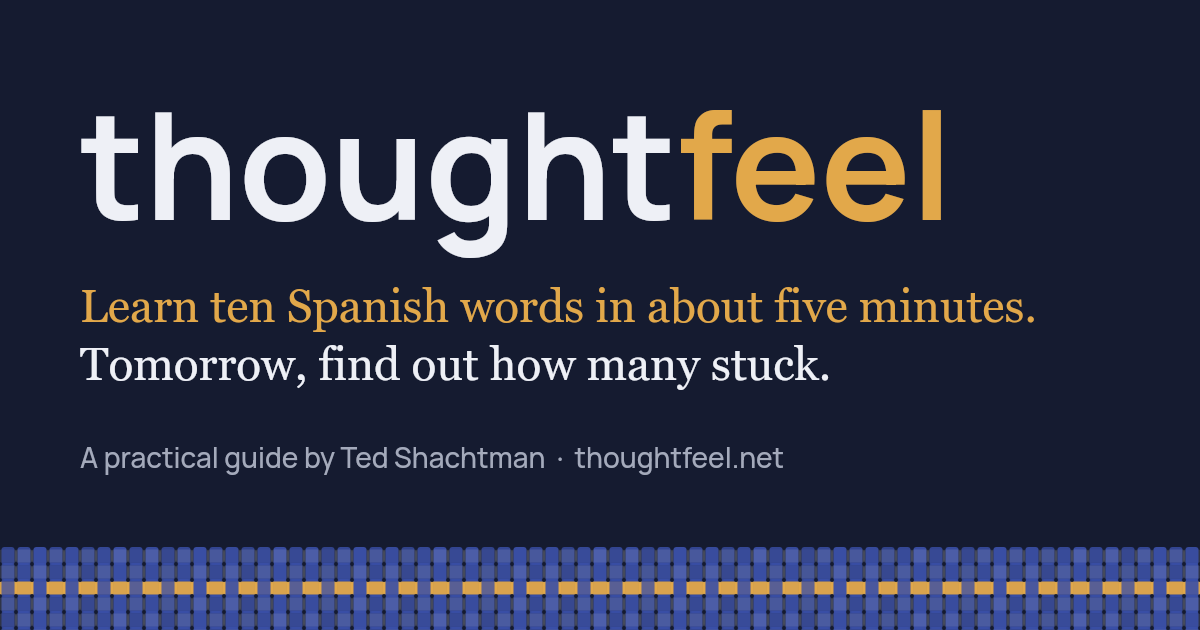
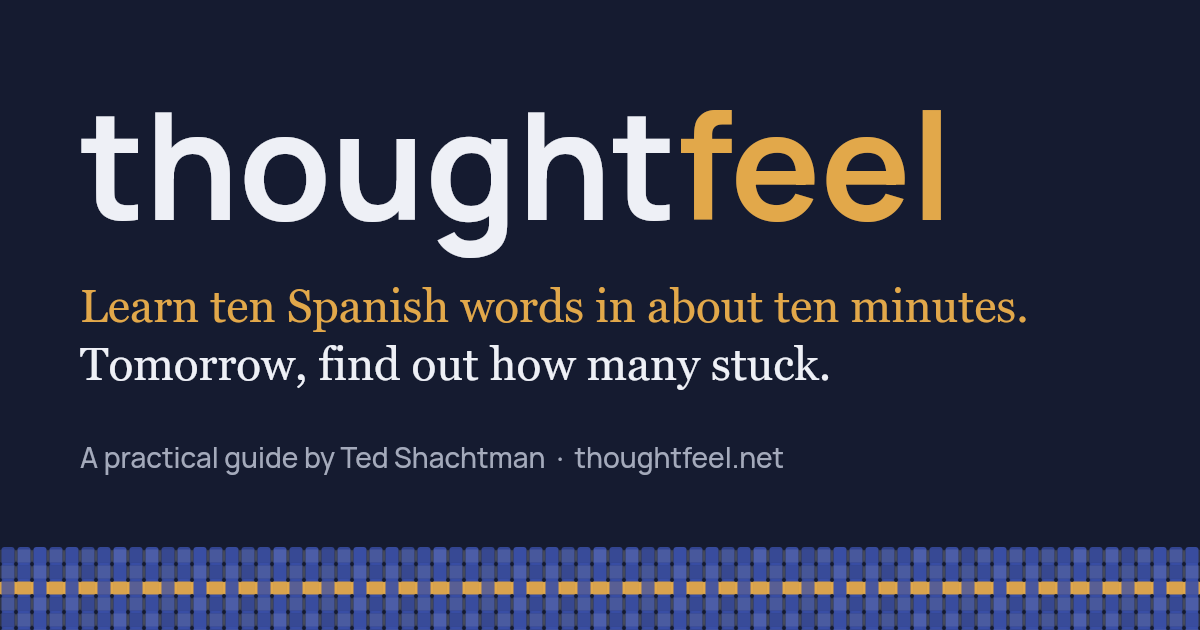
Update site

Changed region(s): [[0.6475, 0.4524, 0.8633, 0.5127]]

diff --git a/words/index.html b/words/index.html
@@ -3,21 +3,21 @@
 <head>
 <meta charset="utf-8">
 <meta name="viewport" content="width=device-width, initial-scale=1, viewport-fit=cover">
-<meta name="description" content="Learn ten Spanish words in about five minutes with thoughtfeel. Tomorrow, take a two-minute test and find out how many stuck.">
+<meta name="description" content="Learn ten Spanish words in about ten minutes with thoughtfeel. Tomorrow, take a two-minute test and find out how many stuck.">
 <link rel="canonical" href="https://thoughtfeel.net/words/">
 <link rel="icon" href="/favicon.svg" type="image/svg+xml">
 <meta property="og:type" content="website">
 <meta property="og:site_name" content="thoughtfeel">
 <meta property="og:title" content="Ten Spanish words: how many will stick?">
-<meta property="og:description" content="Learn ten Spanish words in about five minutes with thoughtfeel. Tomorrow, take a two-minute test and find out how many stuck.">
+<meta property="og:description" content="Learn ten Spanish words in about ten minutes with thoughtfeel. Tomorrow, take a two-minute test and find out how many stuck.">
 <meta property="og:url" content="https://thoughtfeel.net/words/">
 <meta property="og:image" content="https://thoughtfeel.net/og-words.png">
 <meta property="og:image:width" content="1200">
 <meta property="og:image:height" content="630">
-<meta property="og:image:alt" content="Learn ten Spanish words in about five minutes. Tomorrow, find out how many stuck.">
+<meta property="og:image:alt" content="Learn ten Spanish words in about ten minutes. Tomorrow, find out how many stuck.">
 <meta name="twitter:card" content="summary_large_image">
 <meta name="twitter:title" content="Ten Spanish words: how many will stick?">
-<meta name="twitter:description" content="Learn ten Spanish words in about five minutes with thoughtfeel. Tomorrow, take a two-minute test and find out how many stuck.">
+<meta name="twitter:description" content="Learn ten Spanish words in about ten minutes with thoughtfeel. Tomorrow, take a two-minute test and find out how many stuck.">
 <meta name="twitter:image" content="https://thoughtfeel.net/og-words.png">
 <script>
 window.tfTrack = function (path, title) {
@@ -228,25 +228,26 @@ window.tfTrack = function (path, title) {
     <canvas id="swatch" aria-hidden="true"></canvas>
     <div class="card-body" id="words" aria-live="polite">
       <!-- rendered by script; this is the intro and the no-script state -->
-      <p class="eyebrow">Ten Spanish words · 5 minutes</p>
+      <p class="eyebrow">Ten Spanish words · 10 minutes</p>
       <h1 tabindex="-1">How many will stick?</h1>
       <p class="lede">Learn ten Spanish words with thoughtfeel, a sense for concepts. Tomorrow, take a two-minute test and find out how many stuck.</p>
       <noscript><p class="note">This page needs JavaScript turned on.</p></noscript>
       <div class="first">
         <p><strong>Watch the vocabulary lesson first.</strong></p>
-        <p>This exercise uses the technique from the 10-minute lesson. Without it, you won’t know what to do with each word, and they won’t stick.</p>
+        <p>This exercise uses the technique from the 6-minute lesson. Without it, you won’t know what to do with each word, and they won’t stick.</p>
       </div>
       <div class="actions">
-        <a class="btn primary" href="https://www.youtube.com/watch?v=Hfb_A-hkyfk" target="_blank" rel="noopener" data-track="words-intro-lesson">Watch the lesson (10 min)</a>
+        <a class="btn primary" href="https://www.youtube.com/watch?v=VDHt3z8Babo" target="_blank" rel="noopener" data-track="words-intro-lesson">Watch the lesson (6 min)</a>
         <button class="btn" type="button" data-act="start">I’ve watched it: start</button>
       </div>
       <p class="note">Turn your sound on, and find a spot where you can speak out loud.</p>
-      <p class="text how-head">People with thoughtfeel report that a word’s sounds have a feel of their own. For each word, you’ll:</p>
+      <p class="text how-head">For each word, you’ll:</p>
       <ol class="how">
-        <li>Hear it, and notice the feel of its sounds.</li>
-        <li>Hold that feel while you say out loud what the word means.</li>
-        <li>Then the reverse: hold the feel of the meaning, and say the Spanish word.</li>
+        <li>Hear it, and see what it means.</li>
+        <li>Find a part of it that sounds like something you know.</li>
+        <li>Bring up that part and the meaning as concepts, and say out loud how they connect.</li>
       </ol>
+      <p class="note">Then you’ll see one way to link it.</p>
       <p class="note">Not sure you have thoughtfeel? <a href="/#test">Take the 1-minute test</a> first.</p>
     </div>
   </main>
@@ -303,26 +304,28 @@ window.tfTrack = function (path, title) {
 
   /* ---------- The words ---------- */
   // Words an English speaker is unlikely to know or to guess from English. The vocabulary lesson's
-  // own examples (hazaña, bisagra) are left out, so they stay fresh for people who come from the video.
+  // own examples (tobillo, espalda, pierna) are left out, so they stay fresh for people who come from the video.
+  // part: a sound in the word that sounds like something an English speaker knows; link: one way to say how
+  // that thing connects to the meaning. Shown after people try their own.
   var WORDS = [
-    { es: 'ardilla', say: 'ar-DEE-yah', en: 'squirrel' },
-    { es: 'embudo', say: 'em-BOO-doh', en: 'funnel' },
-    { es: 'relámpago', say: 'reh-LAHM-pah-goh', en: 'lightning' },
-    { es: 'cajón', say: 'kah-HOHN', en: 'drawer' },
-    { es: 'charco', say: 'CHAR-koh', en: 'puddle' },
-    { es: 'anzuelo', say: 'ahn-SWEH-loh', en: 'fishhook' },
-    { es: 'pereza', say: 'peh-REH-sah', en: 'laziness' },
-    { es: 'madrugada', say: 'mah-droo-GAH-dah', en: 'the hours before dawn' },
-    { es: 'buzón', say: 'boo-SOHN', en: 'mailbox' },
-    { es: 'ceja', say: 'SEH-hah', en: 'eyebrow' }
+    { es: 'ardilla', say: 'ar-DEE-yah', en: 'squirrel', part: 'ardilla sounds a bit like armadillo.', link: 'A squirrel is a small wild animal, like an armadillo.' },
+    { es: 'embudo', say: 'em-BOO-doh', en: 'funnel', part: 'embudo sounds a bit like bamboo.', link: 'A funnel is hollow, like bamboo, so things pour through it.' },
+    { es: 'relámpago', say: 'reh-LAHM-pah-goh', en: 'lightning', part: 'relámpago has lamp in it.', link: 'Lightning lights everything up, like a lamp.' },
+    { es: 'cajón', say: 'kah-HOHN', en: 'drawer', part: 'cajón ends a bit like home.', link: 'A drawer is a home for your socks.' },
+    { es: 'charco', say: 'CHAR-koh', en: 'puddle', part: 'charco starts like jar.', link: 'A puddle holds water on the ground, like a jar.' },
+    { es: 'anzuelo', say: 'ahn-SWEH-loh', en: 'fishhook', part: 'anzuelo has swell in it.', link: 'A fishhook dangles in the swell of the sea.' },
+    { es: 'pereza', say: 'peh-REH-sah', en: 'laziness', part: 'pereza sounds like it has rest in it.', link: 'Laziness is wanting to rest.' },
+    { es: 'madrugada', say: 'mah-droo-GAH-dah', en: 'the hours before dawn', part: 'madrugada has dru, like dew.', link: 'Dew forms in the hours before dawn.' },
+    { es: 'buzón', say: 'boo-SOHN', en: 'mailbox', part: 'buzón ends a bit like zone.', link: 'A mailbox is a drop zone for letters.' },
+    { es: 'ceja', say: 'SEH-hah', en: 'eyebrow', part: 'ceja sounds like “say ha!”', link: 'Your eyebrows go up when you say ha!' }
   ];
   var N = WORDS.length;
   var KEY = 'thoughtfeel.words';
   var WAIT = 8 * 3600e3; // the test opens 8 hours after learning, but the next day is the real test
   var SHARE_URL = 'https://thoughtfeel.net/words/';
   var SHARED_URL = SHARE_URL + '?ref=words-share'; // what friends get; tagged so GoatCounter shows visits from shares
-  var LESSON_URL = 'https://www.youtube.com/watch?v=Hfb_A-hkyfk'; // the vocabulary lesson
-  var STEPS = ['Hear it', 'Bind it', 'The reverse'];
+  var LESSON_URL = 'https://www.youtube.com/watch?v=VDHt3z8Babo'; // the vocabulary lesson
+  var STEPS = ['Hear it', 'Link it', 'One way'];
   var box = document.getElementById('words');
   var card = document.getElementById('words-card');
   var INTRO = box.innerHTML;
@@ -423,7 +426,7 @@ window.tfTrack = function (path, title) {
       '<div class="word-meta"><span class="say-it">' + w.say + '</span>' + hearButton(w) + '</div></div>';
   }
 
-  /* ---------- Learning: hear it, bind it, the reverse ---------- */
+  /* ---------- Learning: hear it, link it, then one way to link it ---------- */
   function startLearning() {
     learning = { startedAt: Date.now(), i: 0, step: 0 };
     renderLearn();
@@ -434,23 +437,23 @@ window.tfTrack = function (path, title) {
     var w = WORDS[learning.i], s = learning.step, first = learning.i === 0, last = learning.i === N - 1;
     var html = progress(learning.i) +
       '<p class="eyebrow">Word ' + (learning.i + 1) + ' of ' + N + ' · ' + STEPS[s] + '</p>' +
-      wordBlock(w);
+      wordBlock(w) +
+      '<p class="meaning">It means <b>' + w.en + '</b>.</p>';
     if (s === 0) {
       html += '<p class="do" tabindex="-1">' + (first
-        ? 'Say it to yourself: <span class="say" lang="es">' + w.es + '</span>. Then notice the feel of its sounds.'
-        : 'Say it to yourself, and notice the feel of its sounds.') + '</p>' +
+        ? 'Say it to yourself: <span class="say" lang="es">' + w.es + '</span>. Listen for sounds in it that connect to ' + w.en + '.'
+        : 'Say it to yourself, and listen for sounds that connect to ' + w.en + '.') + '</p>' +
         actions('<button type="button" class="btn primary" data-act="step">Next</button>');
     } else if (s === 1) {
-      html += '<p class="meaning">It means <b>' + w.en + '</b>.</p>' +
-        '<p class="do" tabindex="-1">' + (first
-          ? 'Bring up the feel of the sounds of ' + w.es + '. While you hold that feel, say out loud: <span class="say">“this means ' + w.en + '.”</span>'
-          : 'Hold the feel of its sounds, and say out loud: <span class="say">“this means ' + w.en + '.”</span>') + '</p>' +
-        (first ? '<p class="tip">If the feel switches to ' + w.en + ' as you say it, that’s okay. Switch between them: the feel of ' + w.es + ', then say ' + w.en + ', then back to the feel of ' + w.es + '.</p>' : '') +
+      html += '<p class="do" tabindex="-1">' + (first
+          ? 'Find a sound in ' + w.es + ' that connects to ' + w.en + '. If nothing in the whole word does, break it into parts that sound like something you know. ' +
+            'Bring up that part as a concept, the way you’d bring up the economy: not a picture, and not the sound of it. Bring up ' + w.en + ' too, and while both are up in thoughtfeel, <span class="say">say out loud how they connect.</span>'
+          : 'Find a part that sounds like something you know. Bring it up with ' + w.en + ', and while both are up, <span class="say">say out loud how they connect.</span>') + '</p>' +
+        (first ? '<p class="tip">If you found two parts, link them to each other as well, so the sounds of the word hold together.</p>' : '') +
         actions('<button type="button" class="btn primary" data-act="step">Next</button>');
     } else {
-      html += '<p class="meaning">It means <b>' + w.en + '</b>.</p>' +
-        '<p class="do" tabindex="-1">Now the reverse. ' + (first ? 'Bring up' : 'Hold') + ' the feel of ' + w.en + ', and say out loud: <span class="say" lang="es">“' + w.es + '.”</span></p>' +
-        (first ? '<p class="tip">Optional: if part of ' + w.es + ' sounds like a word you know, tie them together. Bring up the feel of that word, and notice the sound it shares with ' + w.es + '.</p>' : '') +
+      html += '<p class="do" tabindex="-1">One way: ' + w.part + ' <span class="say">“' + w.link + '”</span></p>' +
+        (first ? '<p class="tip">If you found your own link, use yours. Say ' + w.es + ' once more: you may get a sense of something like ' + w.en + ' right away, before the word itself. Stay with that.</p>' : '') +
         actions('<button type="button" class="btn primary" data-act="step">' + (last ? 'Finish' : 'Next word') + '</button>');
     }
     html += '<p class="note"><button type="button" class="linkish" data-act="' + (s > 0 || learning.i > 0 ? 'step-back' : 'intro') + '">Back</button></p>';
@@ -542,7 +545,7 @@ window.tfTrack = function (path, title) {
       '<p class="eyebrow">The Spanish word · ' + (k + 1) + ' of ' + N + '</p>' +
       '<p class="prompt">' + w.en + '</p>' +
       '<p class="do">' + (k === 0
-        ? 'Bring up the feel of ' + w.en + ', and let the Spanish word come. Say it out loud, then type it. Spelling doesn’t matter; the sounds do.'
+        ? 'Bring up ' + w.en + ', and the part you linked to it, and let the Spanish word come. Say it out loud, then type it. Spelling doesn’t matter; the sounds do.'
         : 'Say the Spanish word out loud, then type it.') + '</p>' +
       '<form id="say-form" novalidate><div class="answer-row">' +
         '<input type="text" id="say-input" lang="es" aria-label="The Spanish word for ' + w.en + '" placeholder="Type what you said" autocomplete="off" autocapitalize="off" autocorrect="off" spellcheck="false" enterkeyhint="next">' +
@@ -639,11 +642,11 @@ window.tfTrack = function (path, title) {
   }
   function sayMeter(n) { return meter('m-say', 'The word, from its meaning', n.e, n.c, n.e + ' of ' + N + (n.c ? ', plus ' + n.c + ' close' : '')); }
   function resultText(n) {
-    if (n.r <= 3) return 'Fewer stuck this time. If the feel of a word’s sounds didn’t come up while you learned it, there was nothing for the meaning to bind to. Not sure you have thoughtfeel? <a href="/#test">Take the 1-minute test</a>.';
+    if (n.r <= 3) return 'Fewer stuck this time. A link holds when both things are up in thoughtfeel, as concepts, while you say how they connect. Not sure you have thoughtfeel? <a href="/#test">Take the 1-minute test</a>.';
     if (n.e + n.c / 2 >= n.r) return 'You produced the words about as well as you recognized them. Producing is usually the harder direction.';
     return 'Producing a word is usually harder than recognizing it.' +
-      (n.c ? ' A close answer means the feel of its sounds came back, but not every sound.' : '') +
-      ' To make the sounds easier to bring back, tie them to a word you know: bring up the feel of both, and notice the sound they share.';
+      (n.c ? ' A close answer means the part you linked came back, but not the whole word.' : '') +
+      ' To bring the whole word back, link its parts to each other as well, so the sounds of the word hold together.';
   }
   function chips(k, mark) {
     return '<span class="chips" role="group" aria-label="Mark for this answer">' + ['exact', 'close', 'missed'].map(function (m) {

diff --git a/index.html b/index.html
@@ -659,11 +659,11 @@ window.tfTrack = function (path, title) {
         <span class="video-desc">Build an analogy piece by piece, and catch the near misses a list of words would let through.</span>
       </a>
       <div class="video-item">
-        <a class="video" href="https://www.youtube.com/watch?v=Hfb_A-hkyfk" target="_blank" rel="noopener">
-          <span class="thumb"><img src="https://i.ytimg.com/vi/Hfb_A-hkyfk/hqdefault.jpg" alt="" loading="lazy" onerror="this.remove()"><span class="play" aria-hidden="true"></span></span>
+        <a class="video" href="https://www.youtube.com/watch?v=VDHt3z8Babo" target="_blank" rel="noopener">
+          <span class="thumb"><img src="https://i.ytimg.com/vi/VDHt3z8Babo/hqdefault.jpg" alt="" loading="lazy" onerror="this.remove()"><span class="play" aria-hidden="true"></span></span>
           <span class="video-label">Video 8 · Vocabulary</span>
           <span class="video-title">How to Memorize Vocabulary by Imagining in Concepts</span>
-          <span class="video-desc">Bind the feel of a word’s sounds to its meaning, for words in a new language and big words in your own, like medical terms.</span>
+          <span class="video-desc">Break a new word into sounds you already know, and link them to its meaning, in any language or for big words in your own.</span>
         </a>
         <a class="video-try" href="/words/"><strong>Try it:</strong> learn ten Spanish words, then test yourself tomorrow.</a>
       </div>
@@ -752,7 +752,7 @@ window.tfTrack = function (path, title) {
       <li><a href="https://www.youtube.com/watch?v=PIZ0G-A8uy4" target="_blank" rel="noopener">Video 5: Pictures and ideas</a><span>What a Picture Does to an Idea</span></li>
       <li><a href="https://www.youtube.com/watch?v=2lMqpiP8Clo" target="_blank" rel="noopener">Video 6: At the right moment</a><span>You Didn’t Forget. You Missed the Moment.</span></li>
       <li><a href="https://www.youtube.com/watch?v=fWasdNcap88" target="_blank" rel="noopener">Video 7: Analogies</a><span>How to Build an Analogy</span></li>
-      <li><a href="https://www.youtube.com/watch?v=Hfb_A-hkyfk" target="_blank" rel="noopener">Video 8: Vocabulary</a><span>How to Memorize Vocabulary by Imagining in Concepts</span></li>
+      <li><a href="https://www.youtube.com/watch?v=VDHt3z8Babo" target="_blank" rel="noopener">Video 8: Vocabulary</a><span>How to Memorize Vocabulary by Imagining in Concepts</span></li>
       <li><a href="https://www.youtube.com/watch?v=ABazBzZOmag" target="_blank" rel="noopener">Video 9: Finding mistakes</a><span>How to Find the Mistakes in Your Own Understanding</span></li>
       <li><a href="https://www.youtube.com/watch?v=f8YMcrpDIas" target="_blank" rel="noopener">Video 10: Complicated ideas</a><span>How to Learn Complicated Ideas by Imagining in Concepts</span></li>
       <li><a href="https://www.youtube.com/watch?v=TUWSnA1KVrE" target="_blank" rel="noopener">Video 11: The research</a><span>How Many People Can Imagine in Concepts?</span></li>
